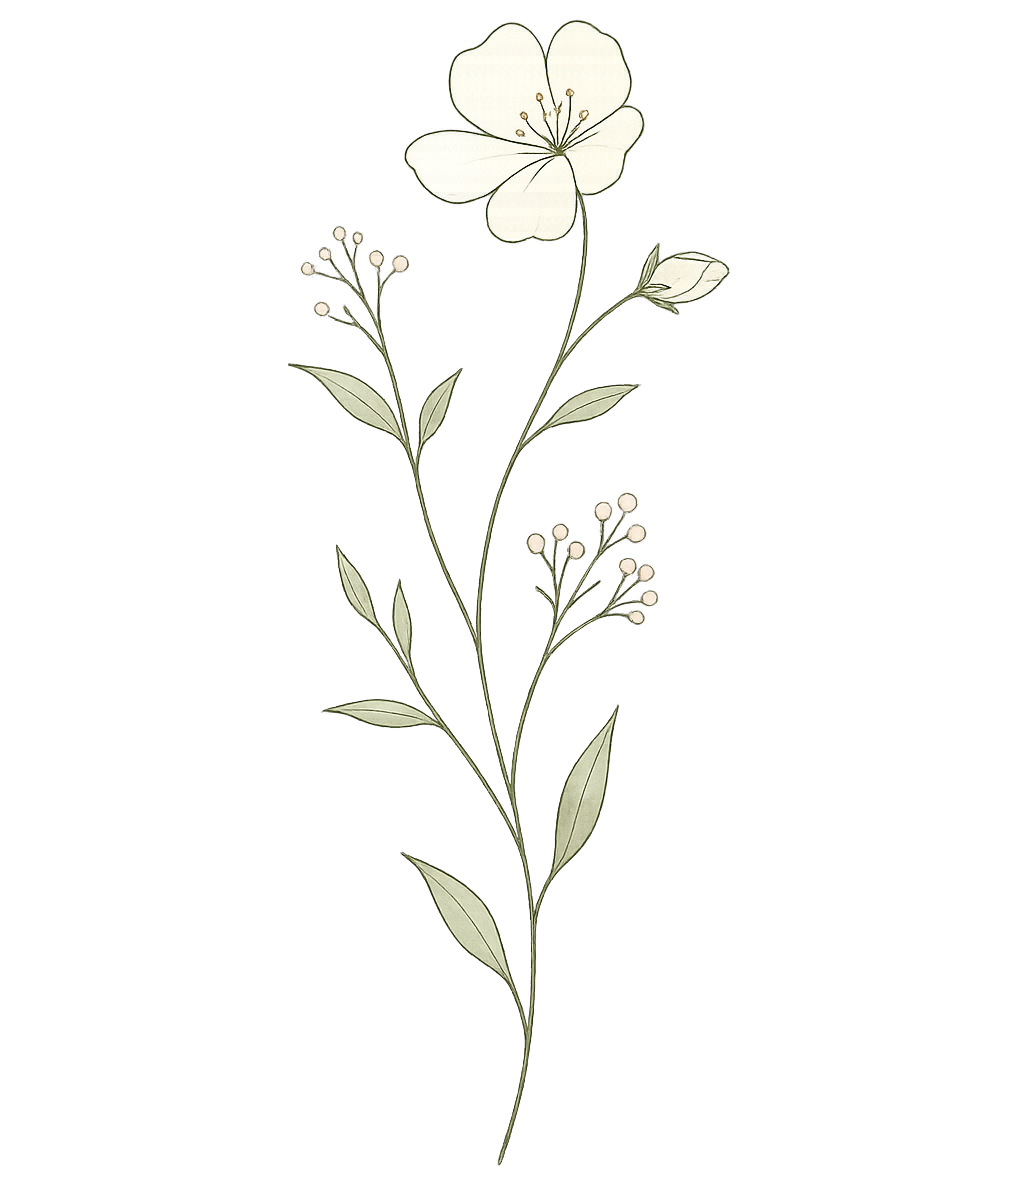
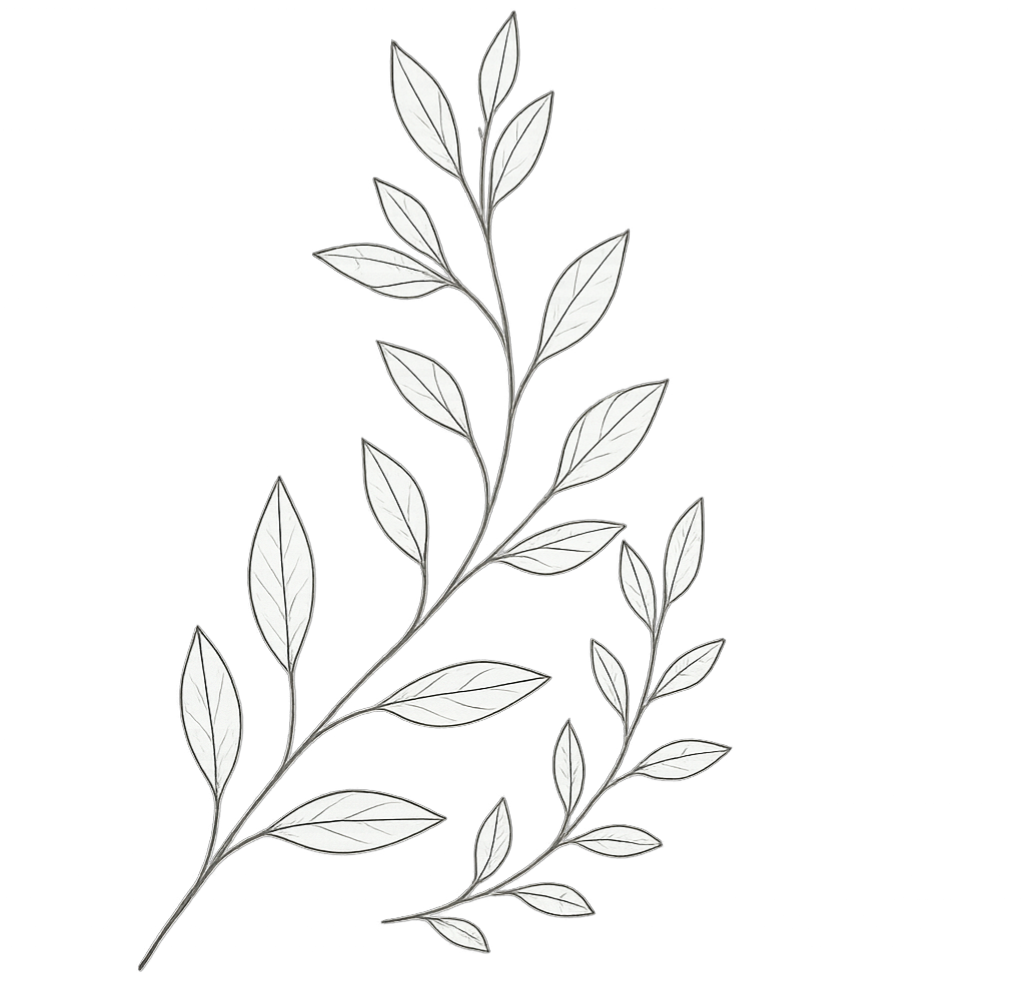
Update to About layout for responsiveness
Add leaf image on larger screens to make up for too much empty space

diff --git a/garden-design-site/src/components/home/About/About.css b/garden-design-site/src/components/home/About/About.css
@@ -1,6 +1,6 @@
 .about {
   display: flex;
-  flex-direction: column-reverse;
+  flex-direction: row;
   position: relative;
   background-color: #faf8f2;
   margin: 0;
@@ -8,7 +8,7 @@
 }
 
 .about-image-wrapper {
-  padding: 0 2rem 1rem;
+  padding: 0 0 0 2rem;
   display: flex;
   justify-content: center;
 }
@@ -22,6 +22,8 @@
   max-height: 30dvh;
   width: auto;
   border-radius: 12px;
+  margin: 2rem 1.5rem 0rem 0rem;
+  float: left;
 }
 
 .about-label {
@@ -37,7 +39,11 @@
   font-size: 30px;
 }
 
-.about-text {
+.about-text-top {
+  font-family: "Cantarell", sans-serif;
+}
+
+.about-text-bottom {
   font-family: "Cantarell", sans-serif;
 }
 
@@ -62,17 +68,14 @@
   background: rgba(255, 255, 255, 0.1);
 }
 
-@media (min-width: 700px) {
+.about-leaf-image {
+  display: none;
+}
+@media (min-width: 768px) {
   .about {
     display: grid;
-    grid-template-columns: 1fr 3.5fr;
+    grid-template-columns: 10fr 0.5fr;
     padding: 2rem 0 2rem;
-  }
-
-  .about-image-wrapper {
-    padding-left: 4rem;
-    align-self: center;
-    padding-top: 1rem;
   }
 
   .profile-image {
@@ -90,6 +93,29 @@
 
   .about-content {
     align-self: start;
-    margin-right: 4rem;
+  }
+
+  .about-leaf-image {
+    display: none;
+  }
+}
+
+@media (min-width: 1024px) {
+  .about {
+    display: grid;
+    padding: 2rem 1rem 4rem;
+  }
+
+  .about-content {
+    margin: 0 0rem 0 5rem;
+  }
+
+  .about-leaf-image {
+    display: block;
+    max-height: 300px;
+    width: auto;
+    padding: 0;
+    margin-top: 1.5rem;
+    border-radius: 6%;
   }
 }

diff --git a/garden-design-site/src/components/home/About/About.tsx b/garden-design-site/src/components/home/About/About.tsx
@@ -1,22 +1,21 @@
 import "./About.css";
 import { Link } from "react-router-dom";
 import profileImg from "../../../assets/profile.jpeg";
+import leaf from "../../../assets/leaf.png";
 
 function About() {
   return (
     <section id="about" className="about">
-      <div className="about-image-wrapper">
-        <img src={profileImg} className="profile-image" alt="" />
-      </div>
       <div className="about-content">
+        <img src={profileImg} className="profile-image" alt="profilbild" />
+
         <p className="about-label">Om mig</p>
         <h2 className="about-title">Hej, jag heter Jennifer</h2>
-        <p className="about-text">
+        <p className="about-text-top">
           Lorem ipsum dolor sit amet, consectetur adipiscing elit. Duis et
           faucibus eros. Cras et facilisis felis, a tristique nibh.
         </p>
-        <p className="about-text">
-          {" "}
+        <p className="about-text-bottom">
           Nam eu mattis lorem. Suspendisse eget posuere urna. Interdum et
           malesuada fames ac ante ipsum primis in faucibus.
         </p>
@@ -24,6 +23,7 @@ function About() {
           Läs mer om mig
         </Link>
       </div>
+      <img src={leaf} className="about-leaf-image" alt="" />
     </section>
   );
 }
